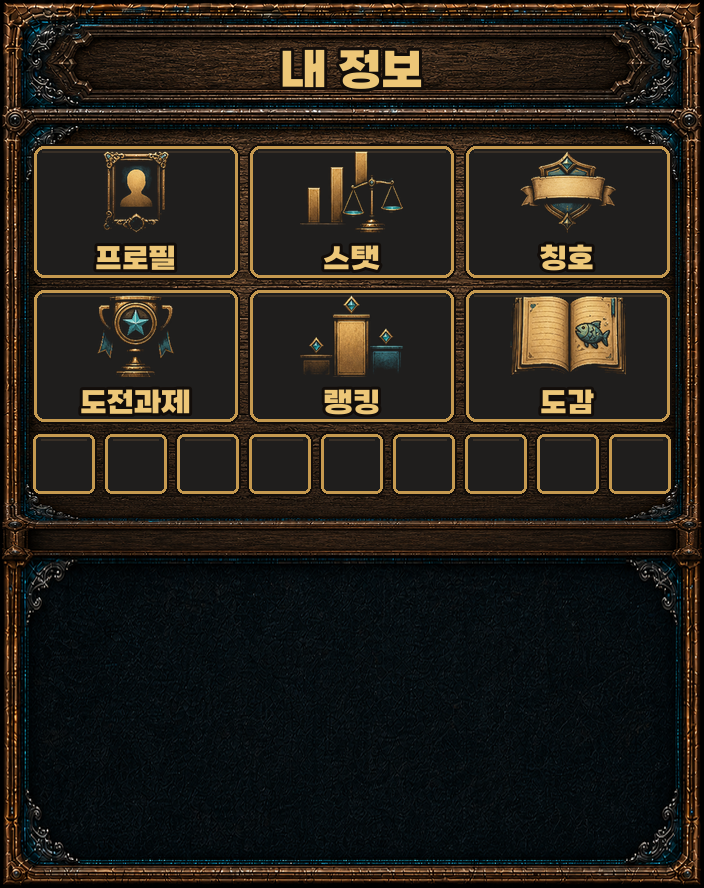
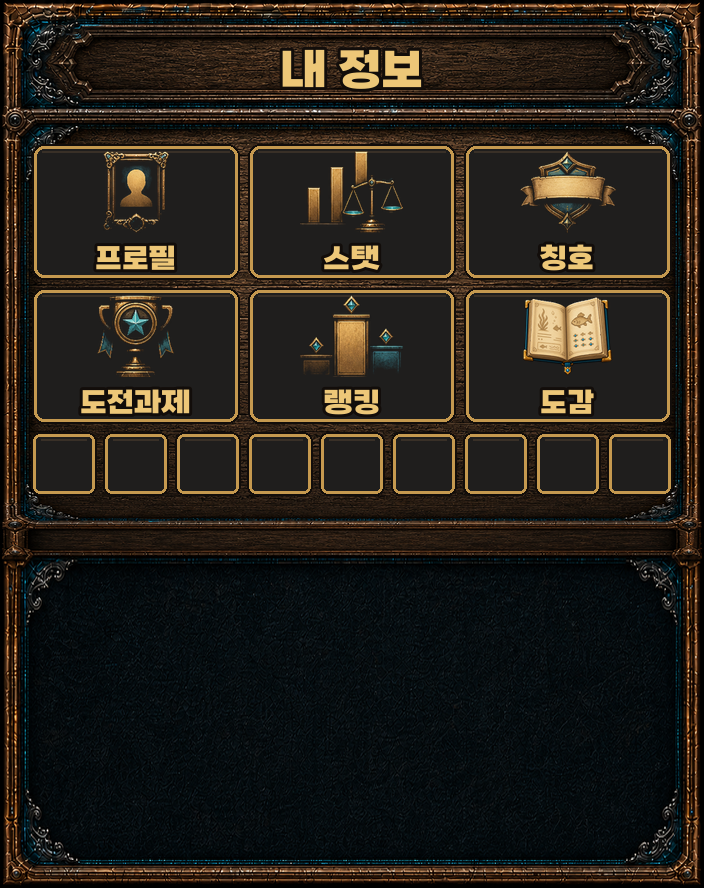
내 정보 도감 타일을 메뉴 아이콘 그림으로 교체
생성물의 펼친 책보다 ui_menu_dex 쪽이 또렷하다. 타일별 아이콘 교체를
TILE_ICON_OVERRIDE 로 열어 뒀다 — 아이콘 원본은 사방에 투명 여백이 있어
alpha bbox 로 잘라야 다른 타일과 크기가 맞는다.

Changed region(s): [[0.7188, 0.3345, 0.9062, 0.4257]]

diff --git a/gui-forge/compose_gui3_imagegen.py b/gui-forge/compose_gui3_imagegen.py
@@ -13,6 +13,12 @@ GEN = {
 }
 RECOMMEND_TILE = SRC / "shop" / "recommend_tile_imagegen.png"
 
+# 타일 그림보다 메뉴 아이콘 쪽이 더 나은 경우가 있다. (화면, 타일번호) → 아이콘 텍스처.
+# 도감이 그 경우였다(2026-08-08) — 생성물의 펼친 책보다 ui_menu_dex 가 또렷하다.
+RP_ICONS = Path.home() / "development" / "barkan-resourcepack" / \
+    "assets" / "minecraft" / "textures" / "item" / "barkan_icon"
+TILE_ICON_OVERRIDE = {("myinfo", 5): "ui_menu_dex"}
+
 # 2행 타일(메뉴·내 정보)은 세로 130px뿐이라 그림을 통째로 깔면 라벨이 아이콘 위에 얹힌다.
 # 아래 LABEL_BAND 만큼은 글자 전용으로 비우고, 그림은 그 위 칸에 비율 유지로 넣는다.
 # 상점은 4행이라 세로가 넉넉해서 예외(그림 그대로 + 아래쪽 여백에 글자).
@@ -122,14 +128,19 @@ def main():
         gen = Image.open(source).convert("RGBA").resize((W, H), Image.Resampling.LANCZOS)
         # Keep the exact slot-aligned molding from the deterministic base. The generated
         # art is used for the quiet interior only, so the imagegen model cannot move hitboxes.
-        for col, y0, y1, _ in LABELS[name]:
+        for tile, (col, y0, y1, _) in enumerate(LABELS[name]):
             x0, x1 = COLS[col]
             dst = (x0 + 7, y0 + 7, x1 - 6, y1 - 6)
             if name == "shop":
                 base.paste(gen.crop(dst), (dst[0], dst[1]))
             else:
                 iw, ih = dst[2] - dst[0], dst[3] - dst[1]
+                swap = TILE_ICON_OVERRIDE.get((name, tile))
                 icon = lift_icon(gen, (dst[0] + 10, dst[1], dst[2] - 10, dst[3]))
+                if swap:
+                    # 아이콘 원본은 사방에 투명 여백이 있다 — 그대로 맞추면 그림이 작아진다.
+                    icon = Image.open(RP_ICONS / f"{swap}.png").convert("RGBA")
+                    icon = icon.crop(icon.getbbox() or (0, 0, icon.width, icon.height))
                 zw, zh = iw - 26, ih - LABEL_BAND - 8
                 k = min(zw / icon.width, zh / icon.height)
                 nw, nh = max(1, round(icon.width * k)), max(1, round(icon.height * k))
